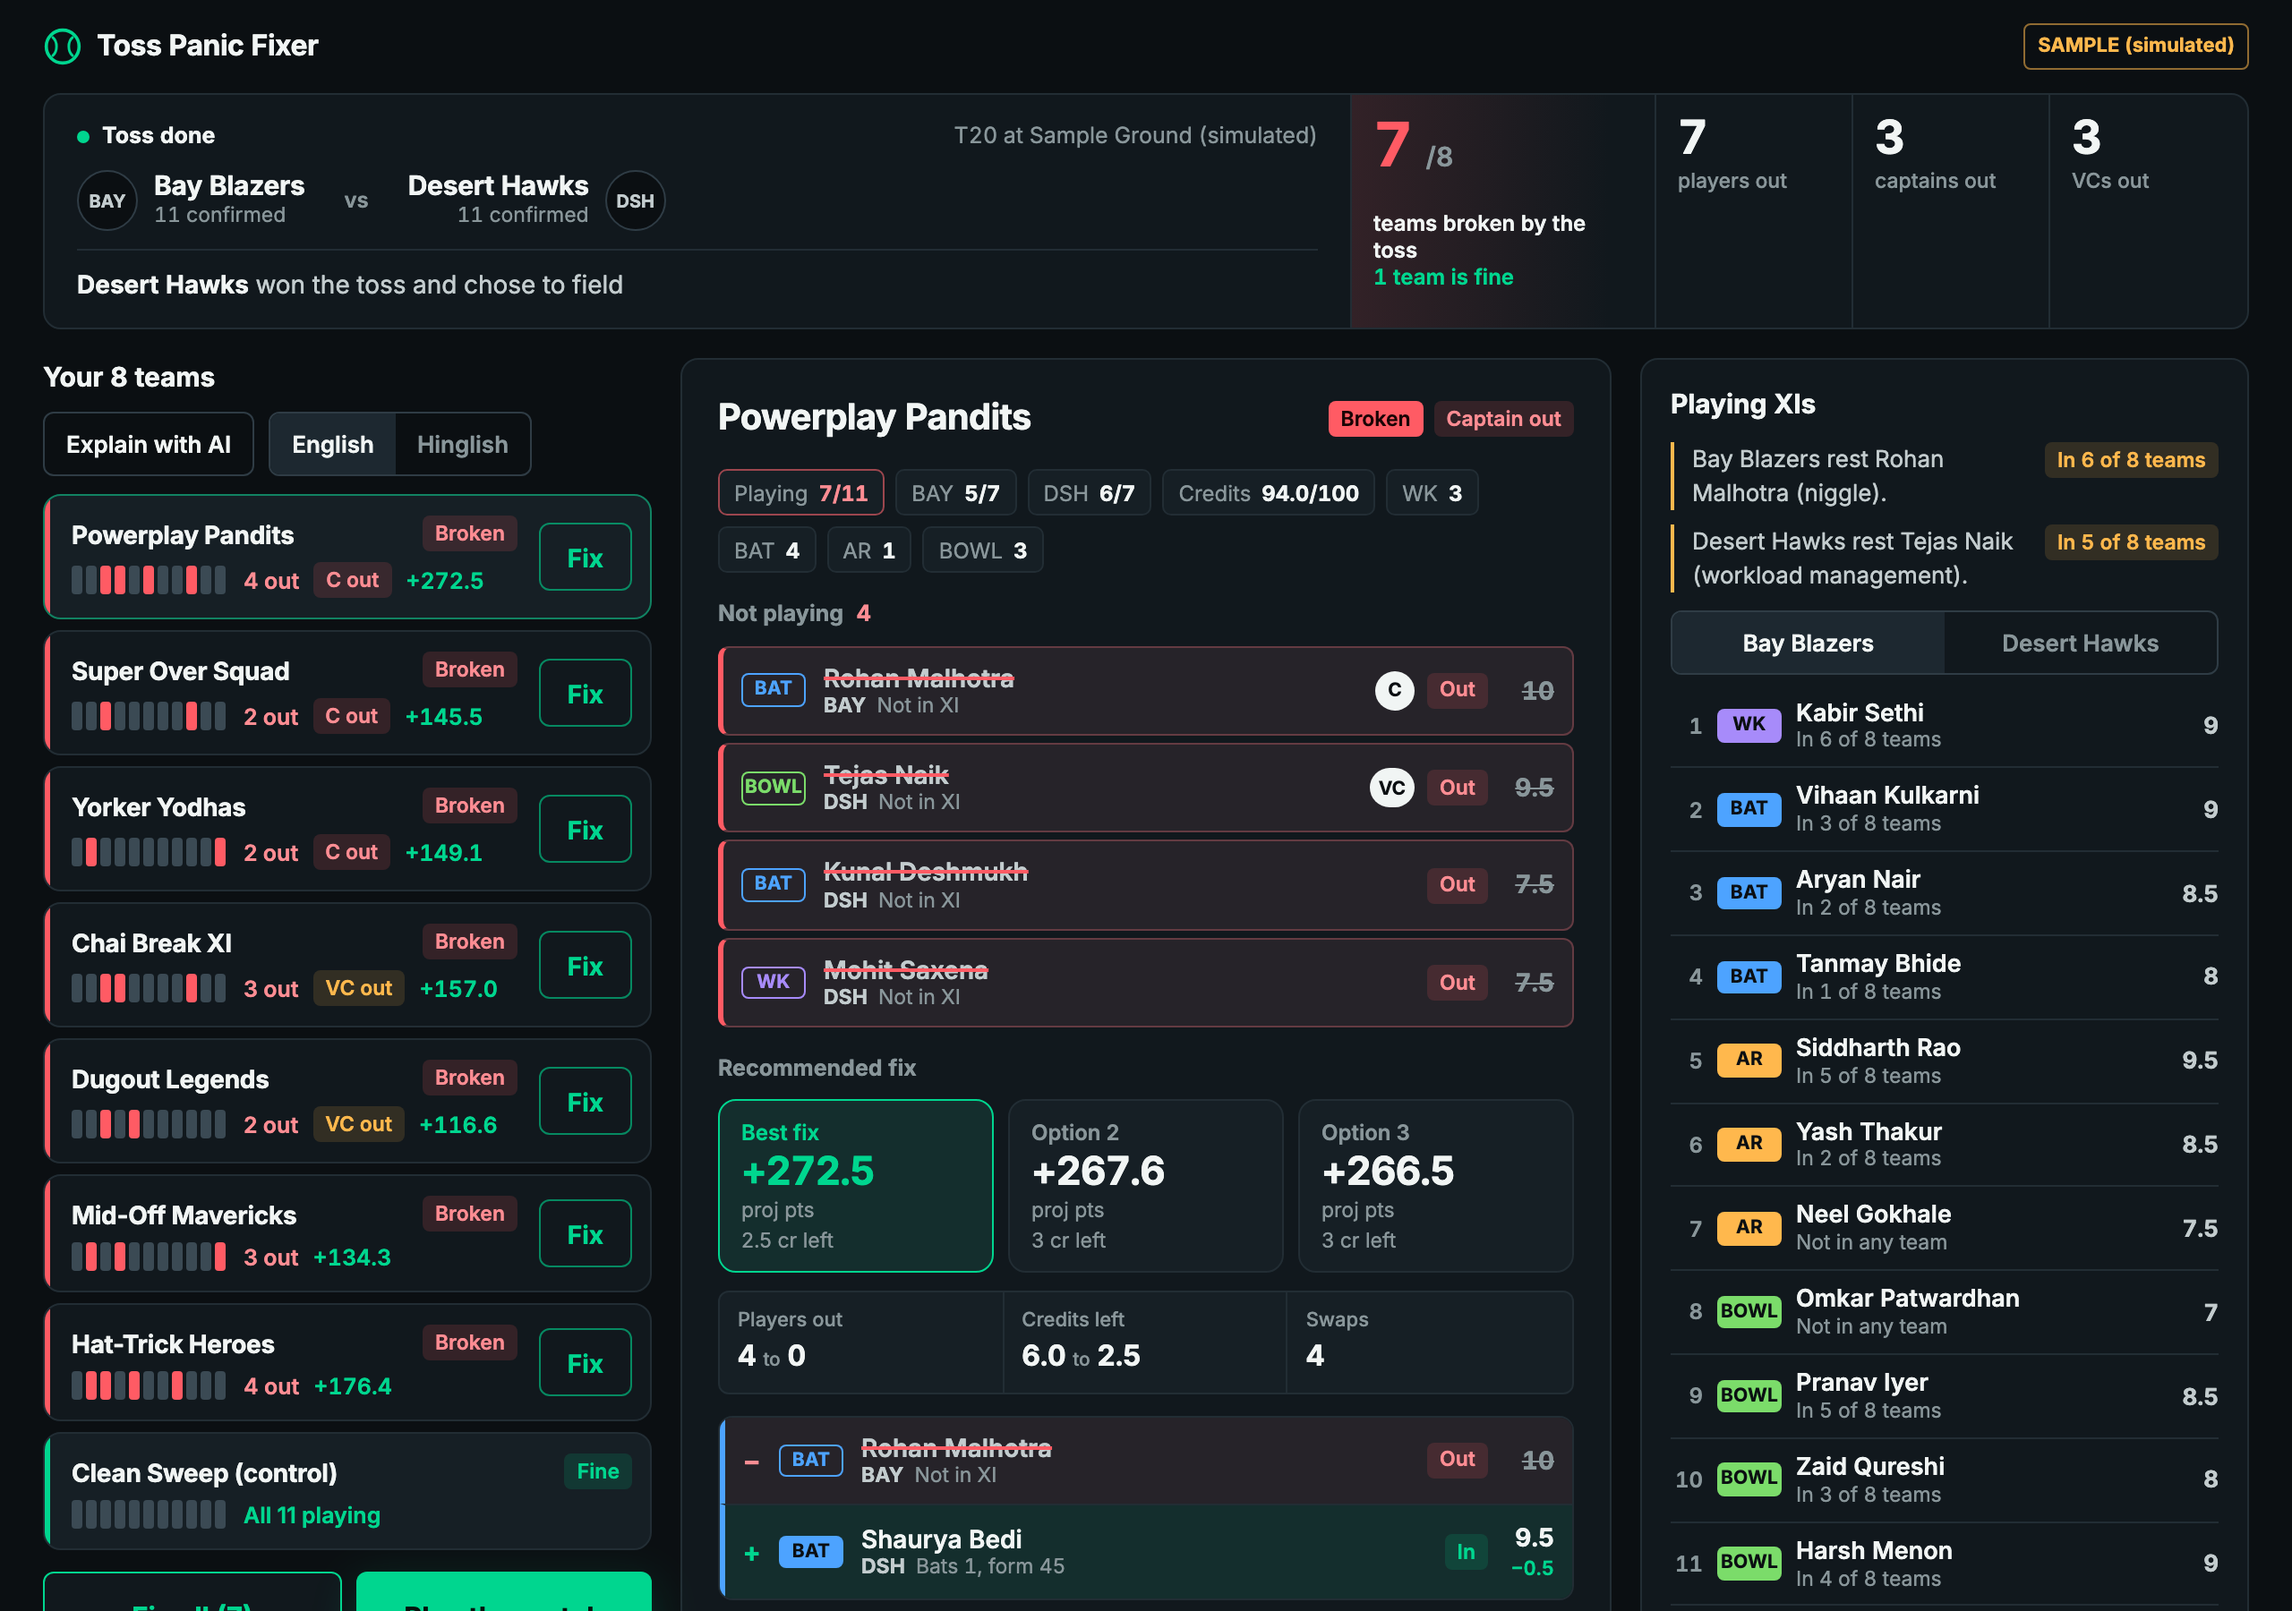
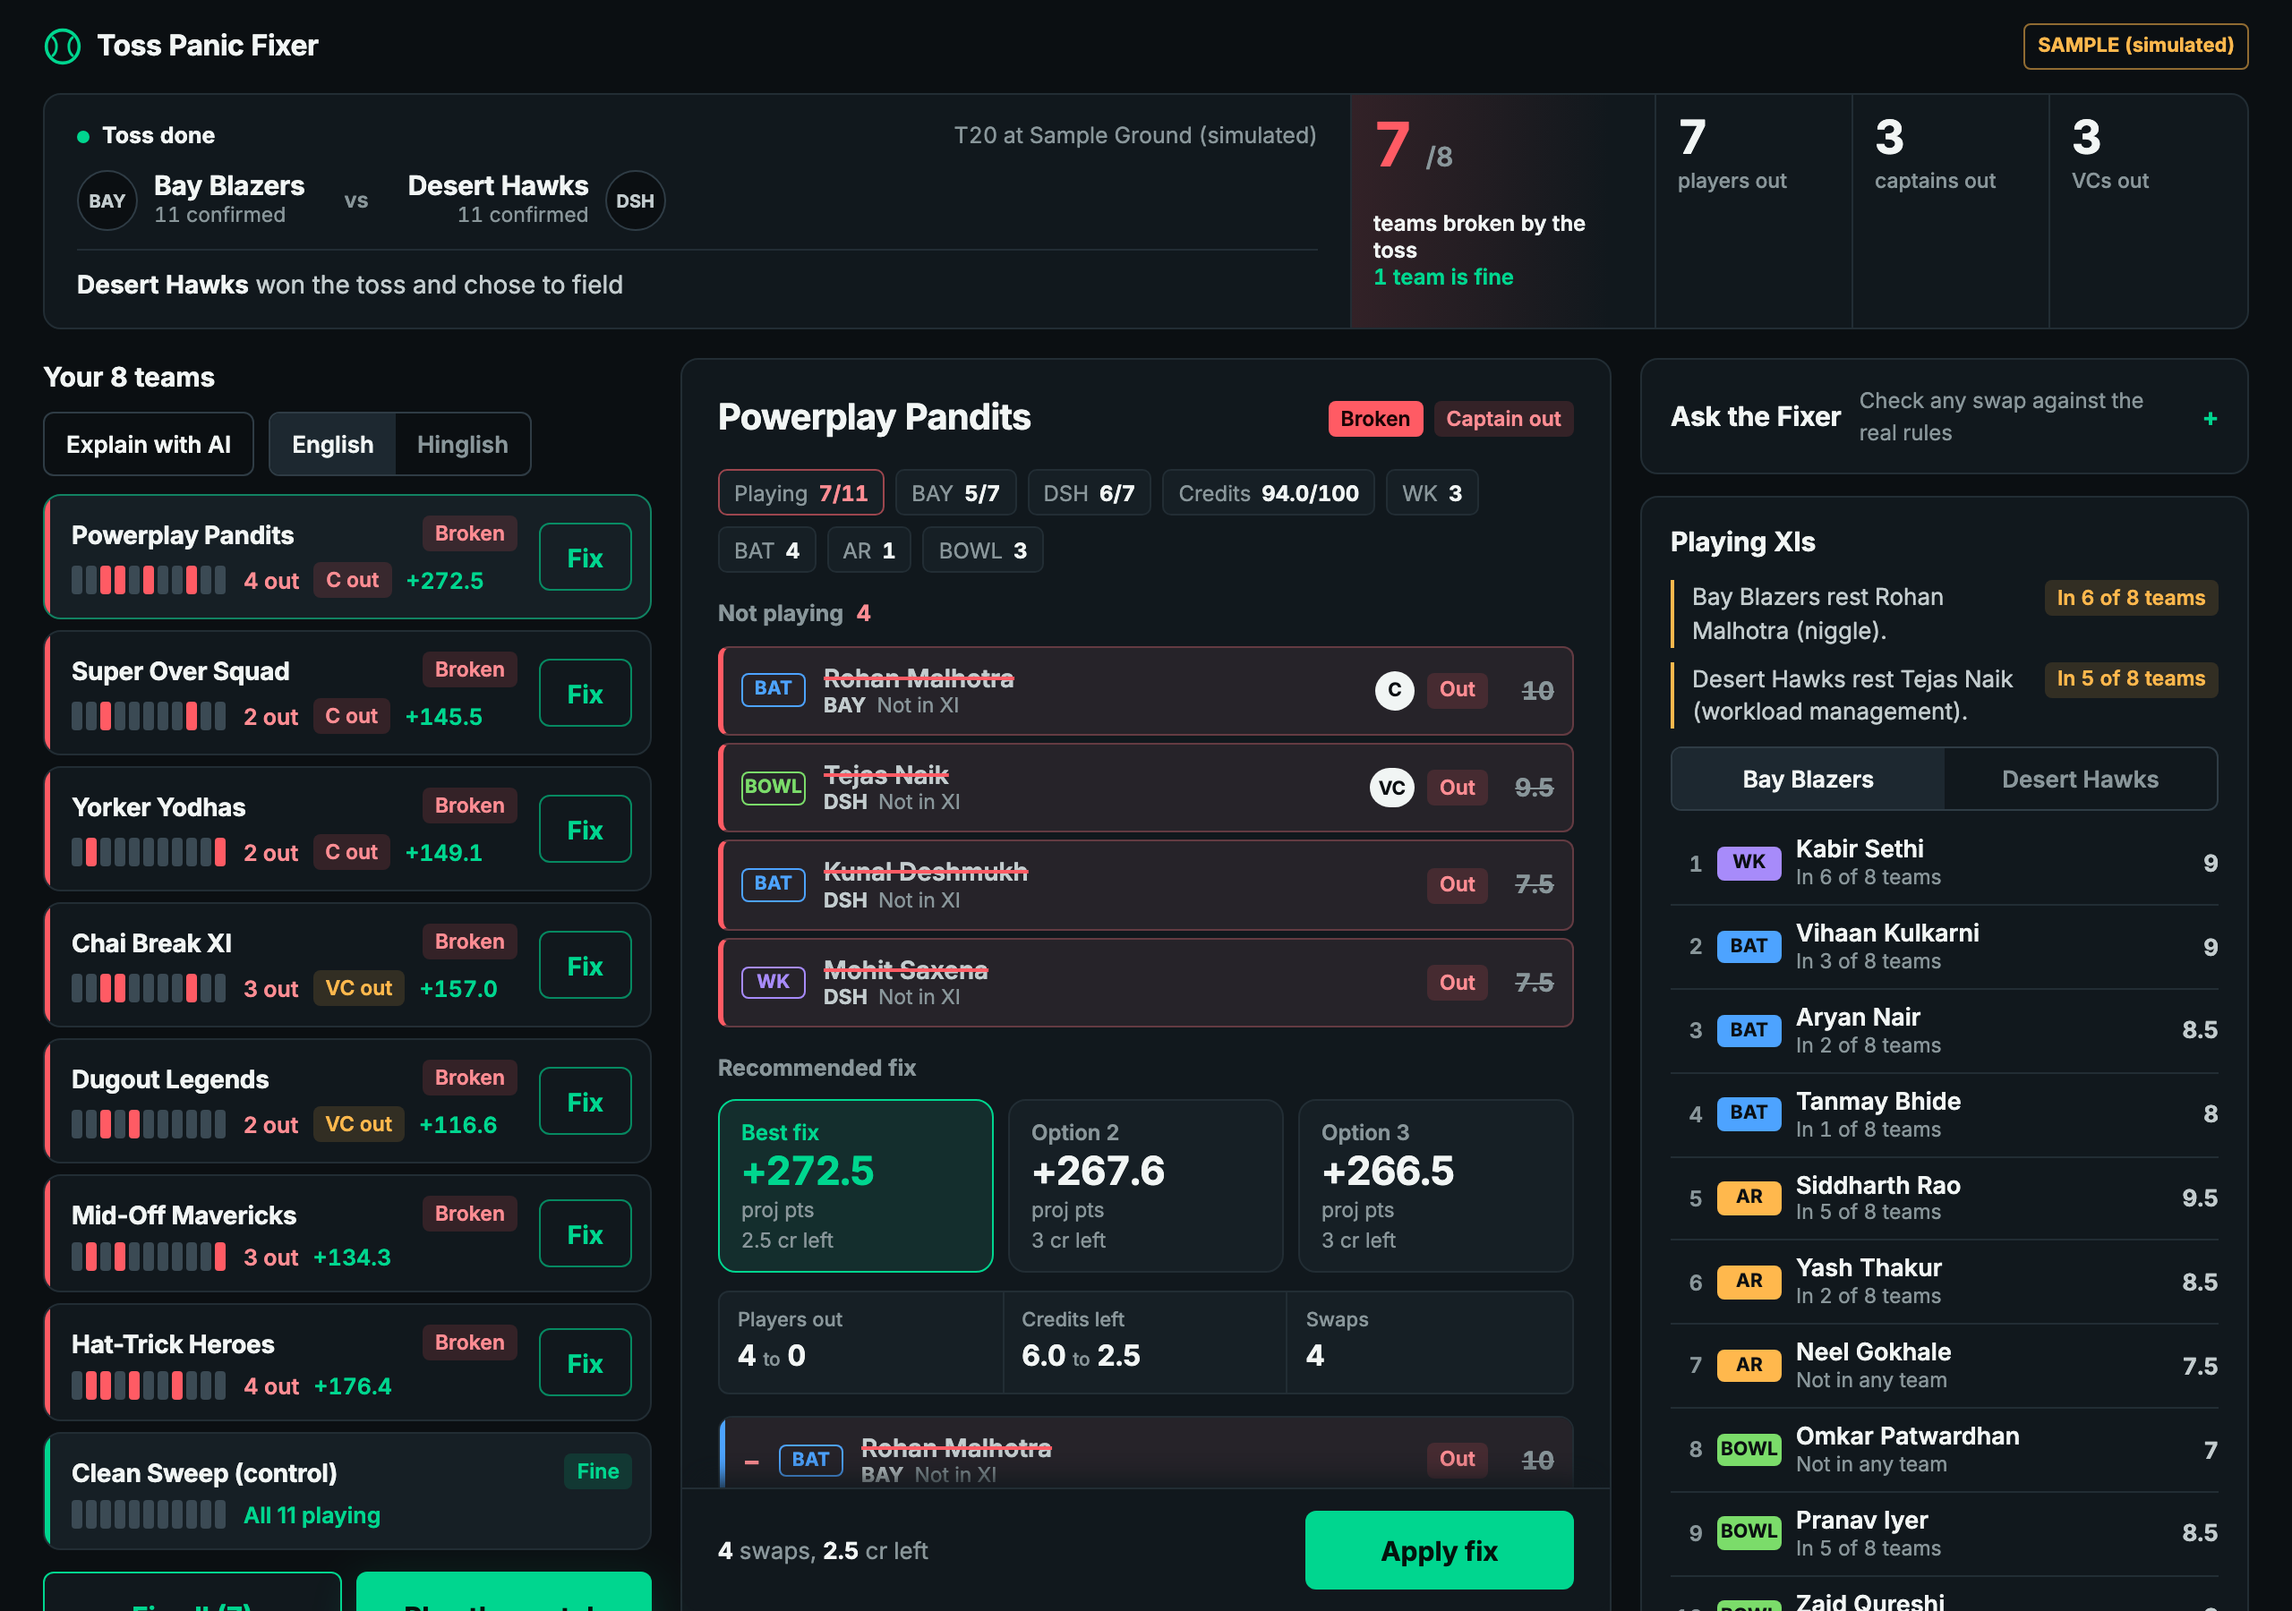
QA fixes: Ask the Fixer first in the desktop rail (collapsed), sticky Apply fix in the workspace, projected-points label for screen readers, one-line Ask heading; refreshed screenshots

diff --git a/src/app.js b/src/app.js
@@ -19,7 +19,7 @@ const state = {
   ask: { q: '', loading: false, answer: '', tools: [], error: '' },
   coin: false, // toss reveal overlay is showing
   fresh: false, // XIs are animating in
-  askOpen: true,
+  askOpen: window.innerWidth < 900, // desktop: a collapsed row at the top of the rail; phones: the Ask tab
   tab: 'teams', // phone only: teams | xi | ask
   sheet: null, // phone only: team id shown in the bottom sheet
   sel: null, // desktop only: team id shown in the workspace
@@ -194,14 +194,14 @@ function teamRow(team) {
     kind = 'fine'; mode = 'health'; chip = '<span class="chip ok">Fine</span>'; line = '<span class="ok">All 11 playing</span>';
   } else if (applied) {
     kind = 'fixed'; mode = 'fixed'; chip = '<span class="chip ok">Fixed</span>';
-    line = `<span class="ok">${applied.swaps.length} ${applied.swaps.length === 1 ? 'swap' : 'swaps'} applied</span><span class="gain num">+${fmt(applied.projGain)}</span>`;
+    line = `<span class="ok">${applied.swaps.length} ${applied.swaps.length === 1 ? 'swap' : 'swaps'} applied</span><span class="gain num"><span class="sr">projected </span>+${fmt(applied.projGain)}</span>`;
   } else {
     kind = 'broken'; mode = 'health'; chip = '<span class="chip bad">Broken</span>';
     const flag = fix.captainOut ? '<span class="chip bad">C out</span>' : fix.vcOut ? '<span class="chip warn">VC out</span>' : '';
     if (fix.impossible) line = `<span class="bad">${fix.out.length} out</span>${flag}<span class="bad">No valid fix</span>`;
     else {
       const best = fix.options[state.pick.get(team.id) ?? 0];
-      line = `<span class="bad">${fix.out.length} out</span>${flag}<span class="gain num">+${fmt(best.projGain)}</span>`;
+      line = `<span class="bad">${fix.out.length} out</span>${flag}<span class="gain num"><span class="sr">projected </span>+${fmt(best.projGain)}</span>`;
       qa = `<button class="qa" data-apply="${team.id}" aria-label="Apply best fix to ${name}">Fix</button>`;
     }
   }
@@ -368,7 +368,7 @@ function context() {
       <p>Your ${teams.length} teams are all valid right now. When the toss happens, the playing XIs drop and any player who is not in them scores zero.</p>
       <p>Select a team to see its players, credits and captain choices.</p></section></div>`;
   }
-  if (state.phase === 'toss') return `<div class="context" role="region" aria-label="Playing XIs and Ask the Fixer">${xiPanel()}${askBox()}</div>`;
+  if (state.phase === 'toss') return `<div class="context" role="region" aria-label="Ask the Fixer and playing XIs">${askBox()}${xiPanel()}</div>`;
   return `<div class="context" role="region" aria-label="Result summary">${fullTime()}</div>`;
 }
 

diff --git a/src/style.css b/src/style.css
@@ -328,6 +328,9 @@ b.cv { display: inline-grid; place-items: center; min-width: 22px; height: 22px;
   .ledger-in { position: sticky; top: 12px; }
   .list-h { margin-top: 0; }
   .bar { position: static; padding: 0; margin-top: 12px; background: none; }
+  /* the primary action stays on screen while the recommendation is being read */
+  .workspace .apply-row { position: sticky; bottom: 0; margin: 14px -20px -20px; padding: 12px 20px; background: var(--s1); border-radius: 0 0 var(--r2) var(--r2); box-shadow: 0 -14px 14px -10px var(--s1); }
+  .rail-ask, .context > .ask { margin-bottom: 12px; }
   .cta { max-width: none; }
   .tn { font-size: 14px; }
 }
@@ -337,3 +340,4 @@ b.cv { display: inline-grid; place-items: center; min-width: 22px; height: 22px;
   .fresh .xr { animation: fade .35s ease both; animation-delay: calc(2.1s + var(--i) * 40ms); }
 }
 @media (prefers-reduced-motion: reduce) { *, *::before, *::after { animation: none !important; transition: none !important; } }
+.ask > summary h2 { white-space: nowrap; }
